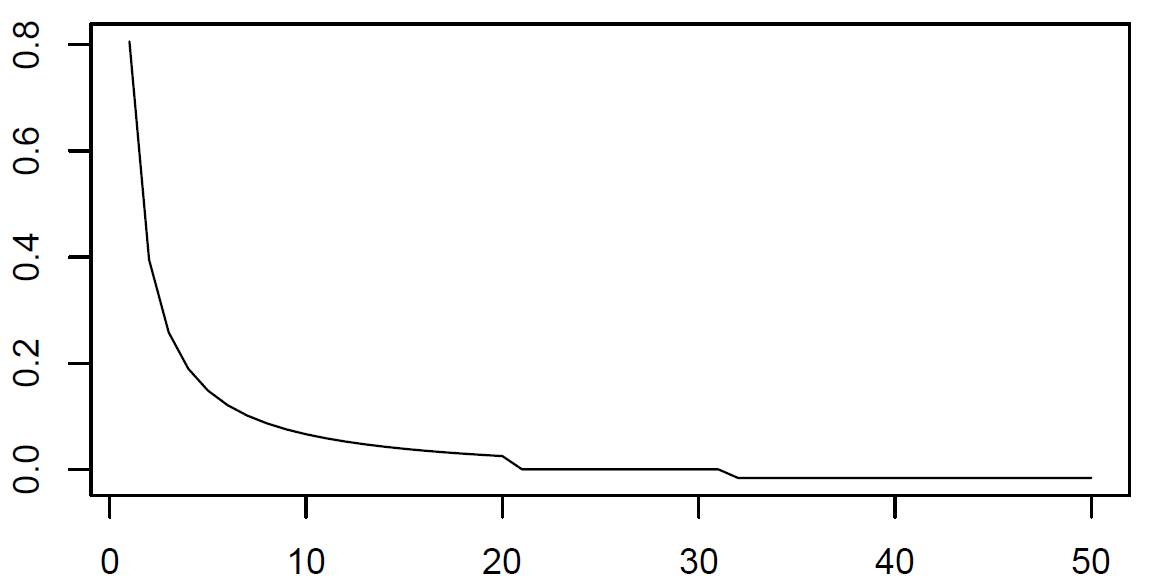
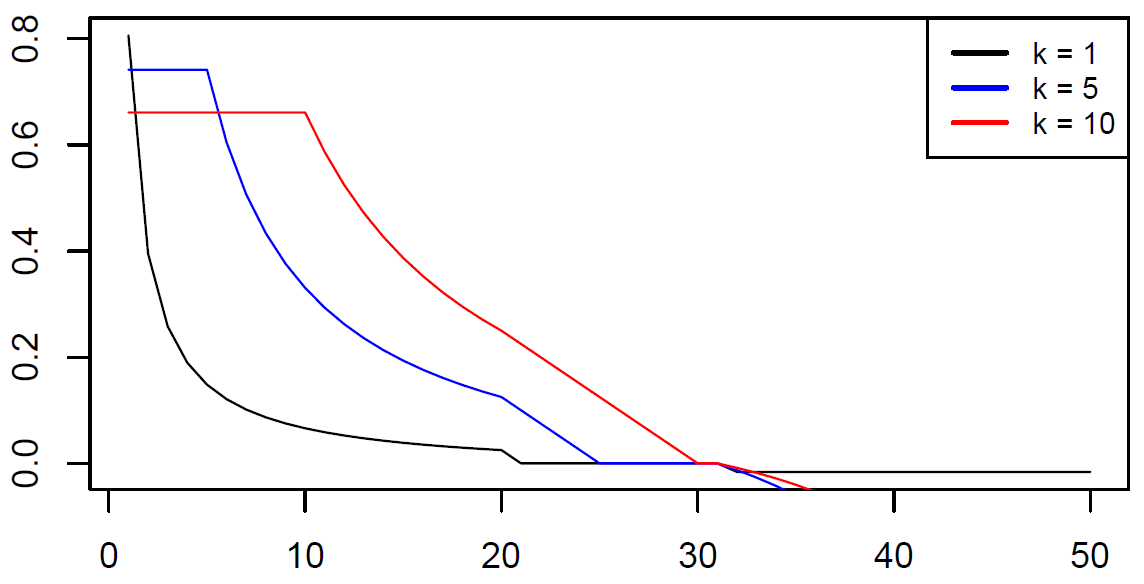
SM: added literature and new graphs

diff --git a/spisok_slides/main.tex b/spisok_slides/main.tex
@@ -238,10 +238,10 @@ $$\text{SSA-}f^{(1)}_{\Re, l} = \frac{a}{{LK}}
 \alert{Замечание:} При фиксированном $L$ первый порядок ошибки не стремится к $0$ с ростом $N$.
 \end{frame}
 
-\begin{frame}{Выброс: График первого порядка для $k = 1$}
+\begin{frame}{Выброс: График первого порядка для $k < L$}
 Рассмотрим
 $$s_l = 1 + \iu,$$
-$\tX{R}$~--- выброс $10 + \iu 10$ на позиции $k = 1$, $N = 50$, $L = 20$.
+$\tX{R}$~--- выброс $10 + \iu 10$ на позиции $k = 1, 5, 10$, $N = 50$, $L = 20$.
 
 % \begin{figure}[H]
 %     \begin{center}
@@ -255,13 +255,12 @@ $\tX{R}$~--- выброс $10 + \iu 10$ на позиции $k = 1$, $N = 50$, $
         \caption{График $\Re(\text{CSSA-}\tX{F}^{(1)})$.}
     \end{center}
 \end{figure}
-\footnote{Здесь хорошо бы добавить динамику по $k$, беря, скажем, $k = 1, 5, 10$.}
 \end{frame}
 
-\begin{frame}{Выброс: График первого порядка для $k = N / 2$}
+\begin{frame}{Выброс: График первого порядка для $L < k < K$}
 Рассмотрим
 $$s_l = 1 + \iu,$$
-$\tX{R}$~--- выброс $10 + \iu 10$ на позиции $k = N / 2$, $N = 50$, $L = 20$.
+$\tX{R}$~--- выброс $10 + \iu 10$ на позиции $k = 26$, $N = 51$, $L = 10, 20, 25$.
 
 % \begin{figure}[H]
 %     \begin{center}
@@ -275,7 +274,6 @@ $\tX{R}$~--- выброс $10 + \iu 10$ на позиции $k = N / 2$, $N = 50
         \caption{График $\Re(\text{CSSA-}\tX{F}^{(1)})$.}
     \end{center}
 \end{figure}
-\footnote{Здесь хорошо бы добавить динамику по $L$, беря, скажем, $L = 5 (10?), 15 (20?), 25$.}
 \end{frame}
 
 \begin{frame}{Сравнение первого порядка и полной ошибок: Зашумлённые гармоники}
@@ -290,7 +288,6 @@ $\tX{R}$~--- белый шум с $\sigma^2 = 0.1$, $N = 9$, $L = 5$.
 	\end{center}
 \end{figure}
 \alert{Вывод:} Первый порядок почти совпадает с полной ошибкой.
-\footnote{Нужно добавить шкалу по осям, хотя бы по Y}
 \end{frame}
 
 \begin{frame}{Сравнение первого порядка и полной ошибок: Константный сигнал с выбросом}
@@ -332,5 +329,41 @@ $\tX{R}$~--- выброс $10 + \iu 10$ на позиции $k = L - 1$.
     \end{itemize}
 \end{frame}
 
+\begin{frame}{Список литературы}
+\begin{thebibliography}{10}
+	
+	\bibitem{Golyandina.etal2013}
+	N.~Golyandina, A.~Korobeynikov, A.~Shlemov, and K.~Usevich.
+	\newblock Multivariate and {2D} extensions of singular spectrum analysis with
+	the {R}ssa package.
+	
+	
+	\bibitem{Golyandina.etal2001}
+	N.~Golyandina, V.~Nekrutkin, and A.~Zhigljavsky.
+	\newblock {\em Analysis of Time Series Structure: {SSA} and Related
+		Techniques}.
+
+	
+	\bibitem{Golyandina.Stepanov2005}
+	Д.~Степанов, Н.~Голяндина.
+	\newblock Варианты метода "Гусеница"{-SSA} для прогноза многомерных временных рядов.
+
+	\bibitem{Nekrutkin}
+	V.~Nekrutkin.
+	\newblock Perturbation expansions of signal subspaces for long signals.
+
+	
+	\bibitem{NekrutkinPerp}
+	V.~Nekrutkin.
+	\newblock Perturbations in SSA.
+
+	
+	\bibitem{Konstantinov}
+	А.~Константинов.
+	\newblock Некоторые задачи анализа временных рядов.
+
+	
+\end{thebibliography}
+\end{frame}
 
 \end{document}
